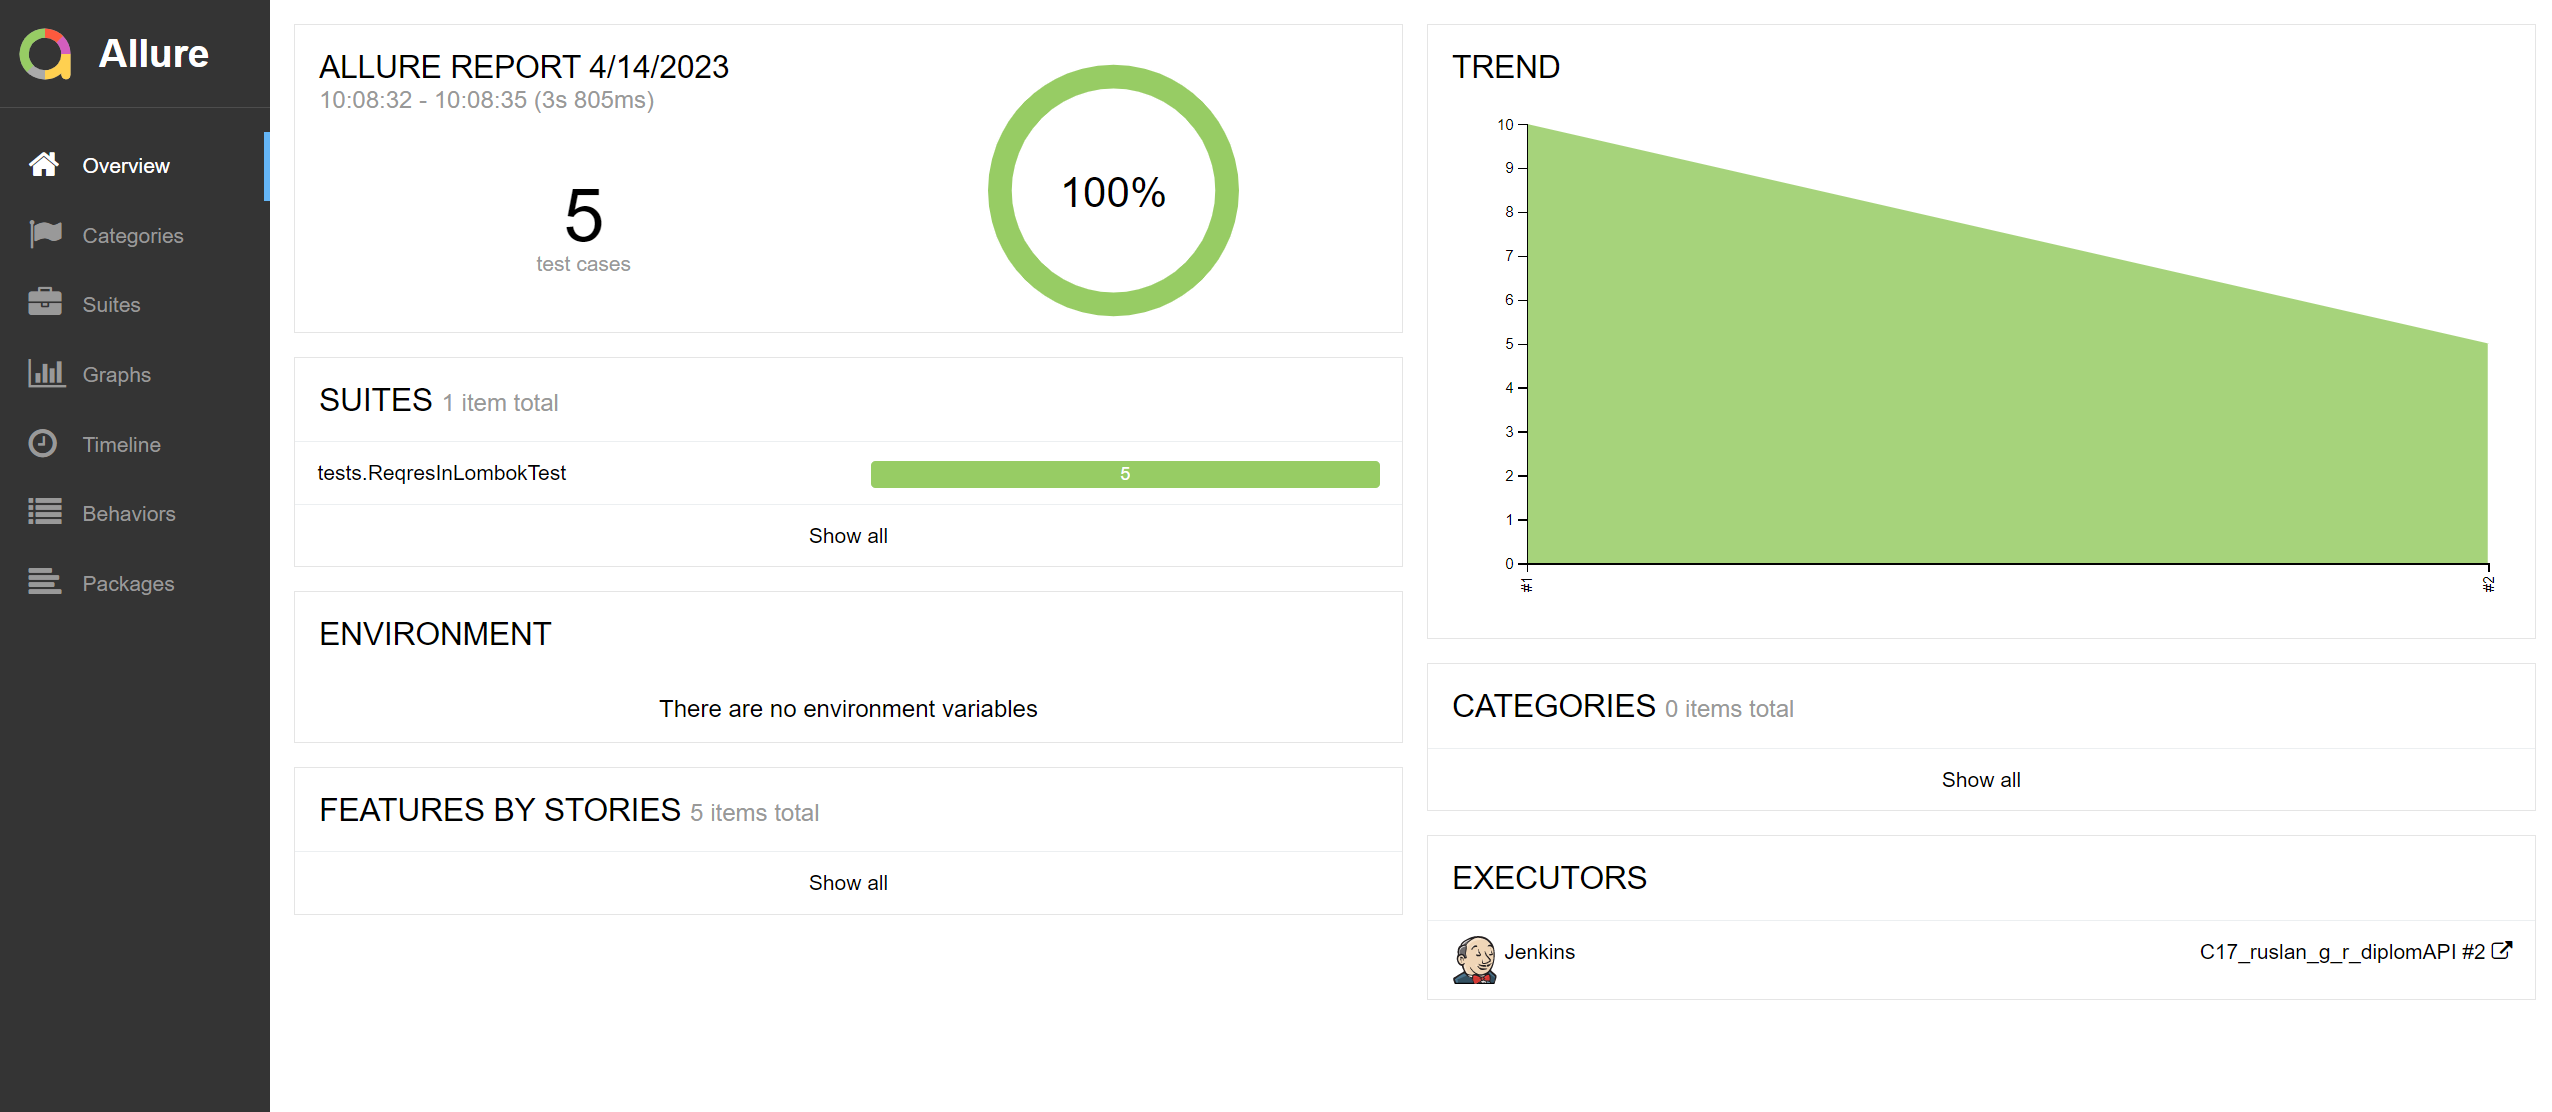
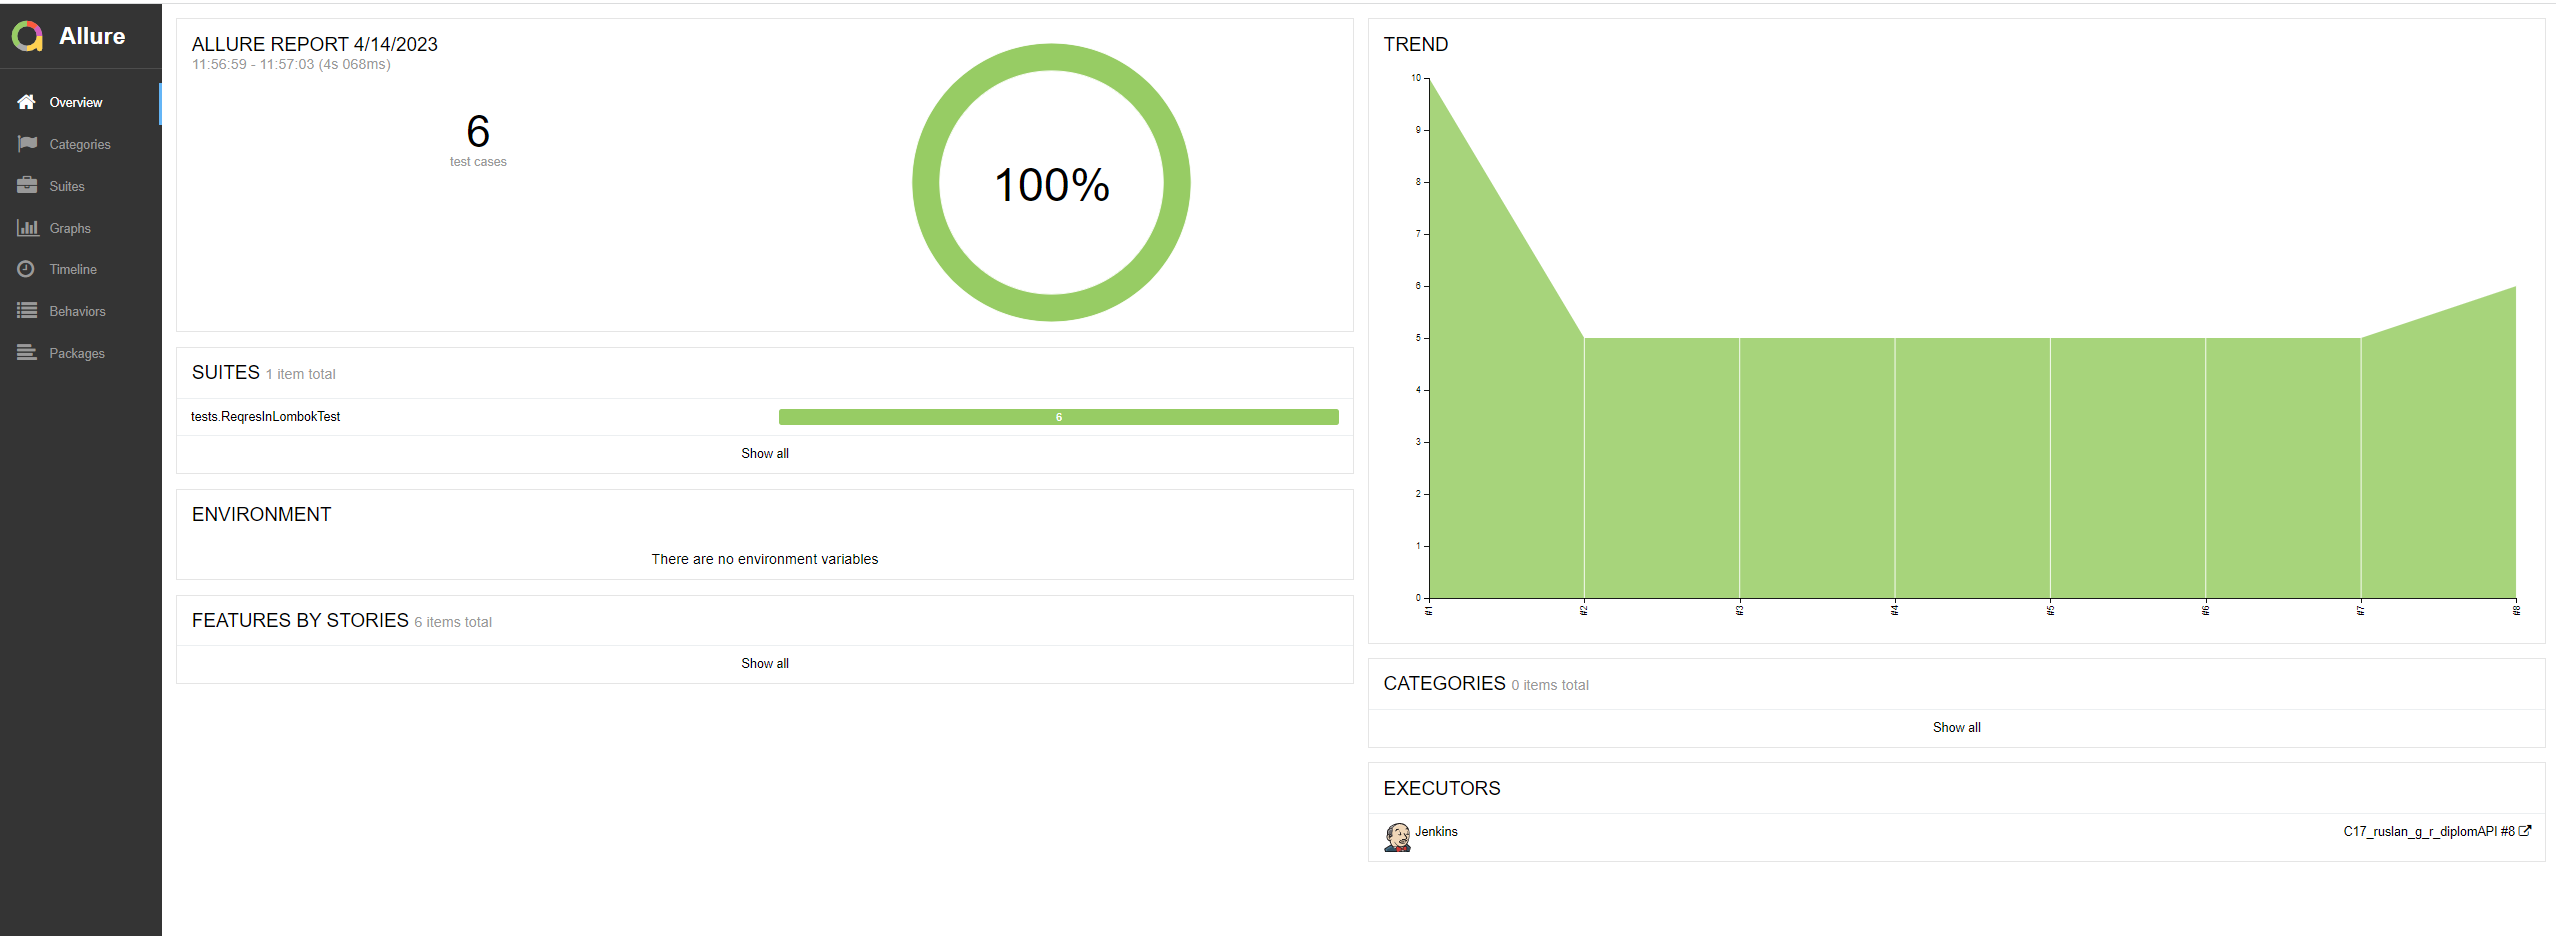
cm

diff --git a/readme.md b/readme.md
@@ -42,9 +42,8 @@ Allure report includes:
 - ✓ POST/api/users - creating a user account
 - ✓ GET/api//users?page=2 - getting a list of users
 - ✓ POST/api/login - login
--  ✓ POST/api/register - регистрация в системе
-
- 
+- ✓ POST/api/register - registration in the system
+- ✓ DELETE/api/users/2 - user account deletion
 
 
 # :running_woman: Run tests
@@ -111,11 +110,6 @@ test/positive/negative - all tests/postitve/negative
 
 <p align="center">
   <img src="images/screens/AllureTestOpsTestCases.png" alt="testcase" width="900">
-</p>
-
-# Jira integration
-<p align="center">
-  <img src="images/screens/JiraARHS.png" alt="JiraIntegration" width="950">
 </p>
 
 
